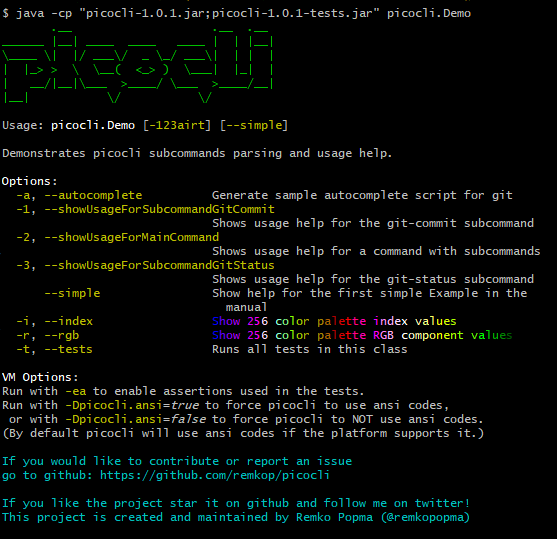
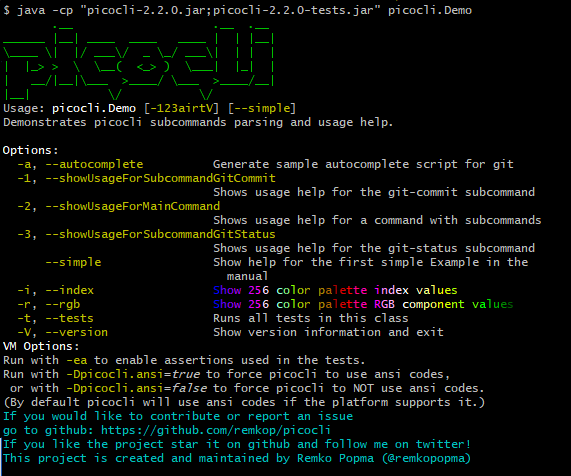
Update screenshots and README for picocli 2.2 release.

Changed region(s): [[0.0, 0.0, 0.9767, 1.0], [0.0916, 0.5294, 0.1831, 0.5588]]

diff --git a/README.md b/README.md
@@ -38,7 +38,7 @@ interactively showing users what options and subcommands are available.
 
 #### Releases
 * [Releases](https://github.com/remkop/picocli/releases) - latest: 2.2
-* [Picocli 2.0 Release Notes](https://github.com/remkop/picocli/releases/tag/v2.0.0) - note there are some [potential breaking changes](https://github.com/remkop/picocli/releases/tag/v2.0.0#2.0-breaking-changes)
+* [Picocli 2.0 Release Notes](https://github.com/remkop/picocli/releases/tag/v2.0.0) - note there are some [potential breaking changes](https://github.com/remkop/picocli/releases/tag/v2.0.0#2.0-breaking-changes) from prior versions
 
 #### Documentation
 * [User manual: http://picocli.info](http://picocli.info)
@@ -57,7 +57,8 @@ interactively showing users what options and subcommands are available.
 
 ## Example
 
-Annotate fields with the command line parameter names and description.
+Annotate fields with the command line parameter names and description. Optionally implement `Runnable` or `Callable` to delegate error handling and requests for usage help or version help to picocli. For example:
+
 
 ```java
 import picocli.CommandLine;
@@ -94,26 +95,19 @@ public class Example implements Runnable {
 }
 ```
 
-All that is necessary to run the program is to invoke the `CommandLine.run` method with the command line parameters and the object you want to initialize.
+If your command implements `Runnable`, all the code that is necessary to parse the command line and execute the command is a call to `CommandLine.run` with the command line parameters and the `Runnable` command. When the program is run on the command line, the command line arguments are converted to Java objects and assigned to the annotated fields. After the arguments are successfully parsed, picocli calls the command's `run` method.
 
 ```bash
 $ java Example -v inputFile1 inputFile2
+
+2 files to process...
 ```
 
-The `CommandLine.run` method automatically prints the usage help message if the user requested help or when the input was invalid.
-
-```bash
-$ java Example
-
-Missing required parameters at positions 0..*: FILE
-Usage: <main class> [-h] [-v]... FILE...
-      FILE...                 File(s) to process.
-  -h, --help                  Displays this help message and quits.
-  -v, --verbose               Verbose mode. Helpful for troubleshooting.
-                                Multiple -v options increase the verbosity.
-```
+The `CommandLine.run` convenience method automatically prints the usage help message if the user requested help or when the input was invalid.
 
 ![Usage help message with ANSI colors](docs/images/ExampleUsageANSI.png?raw=true)
+
+If you want more control, you may be interested in the `CommandLine.parse` or `CommandLine.parseWithHandlers` methods. See the user manual for details.
 
 ## Usage Help with ANSI Colors and Styles
 
